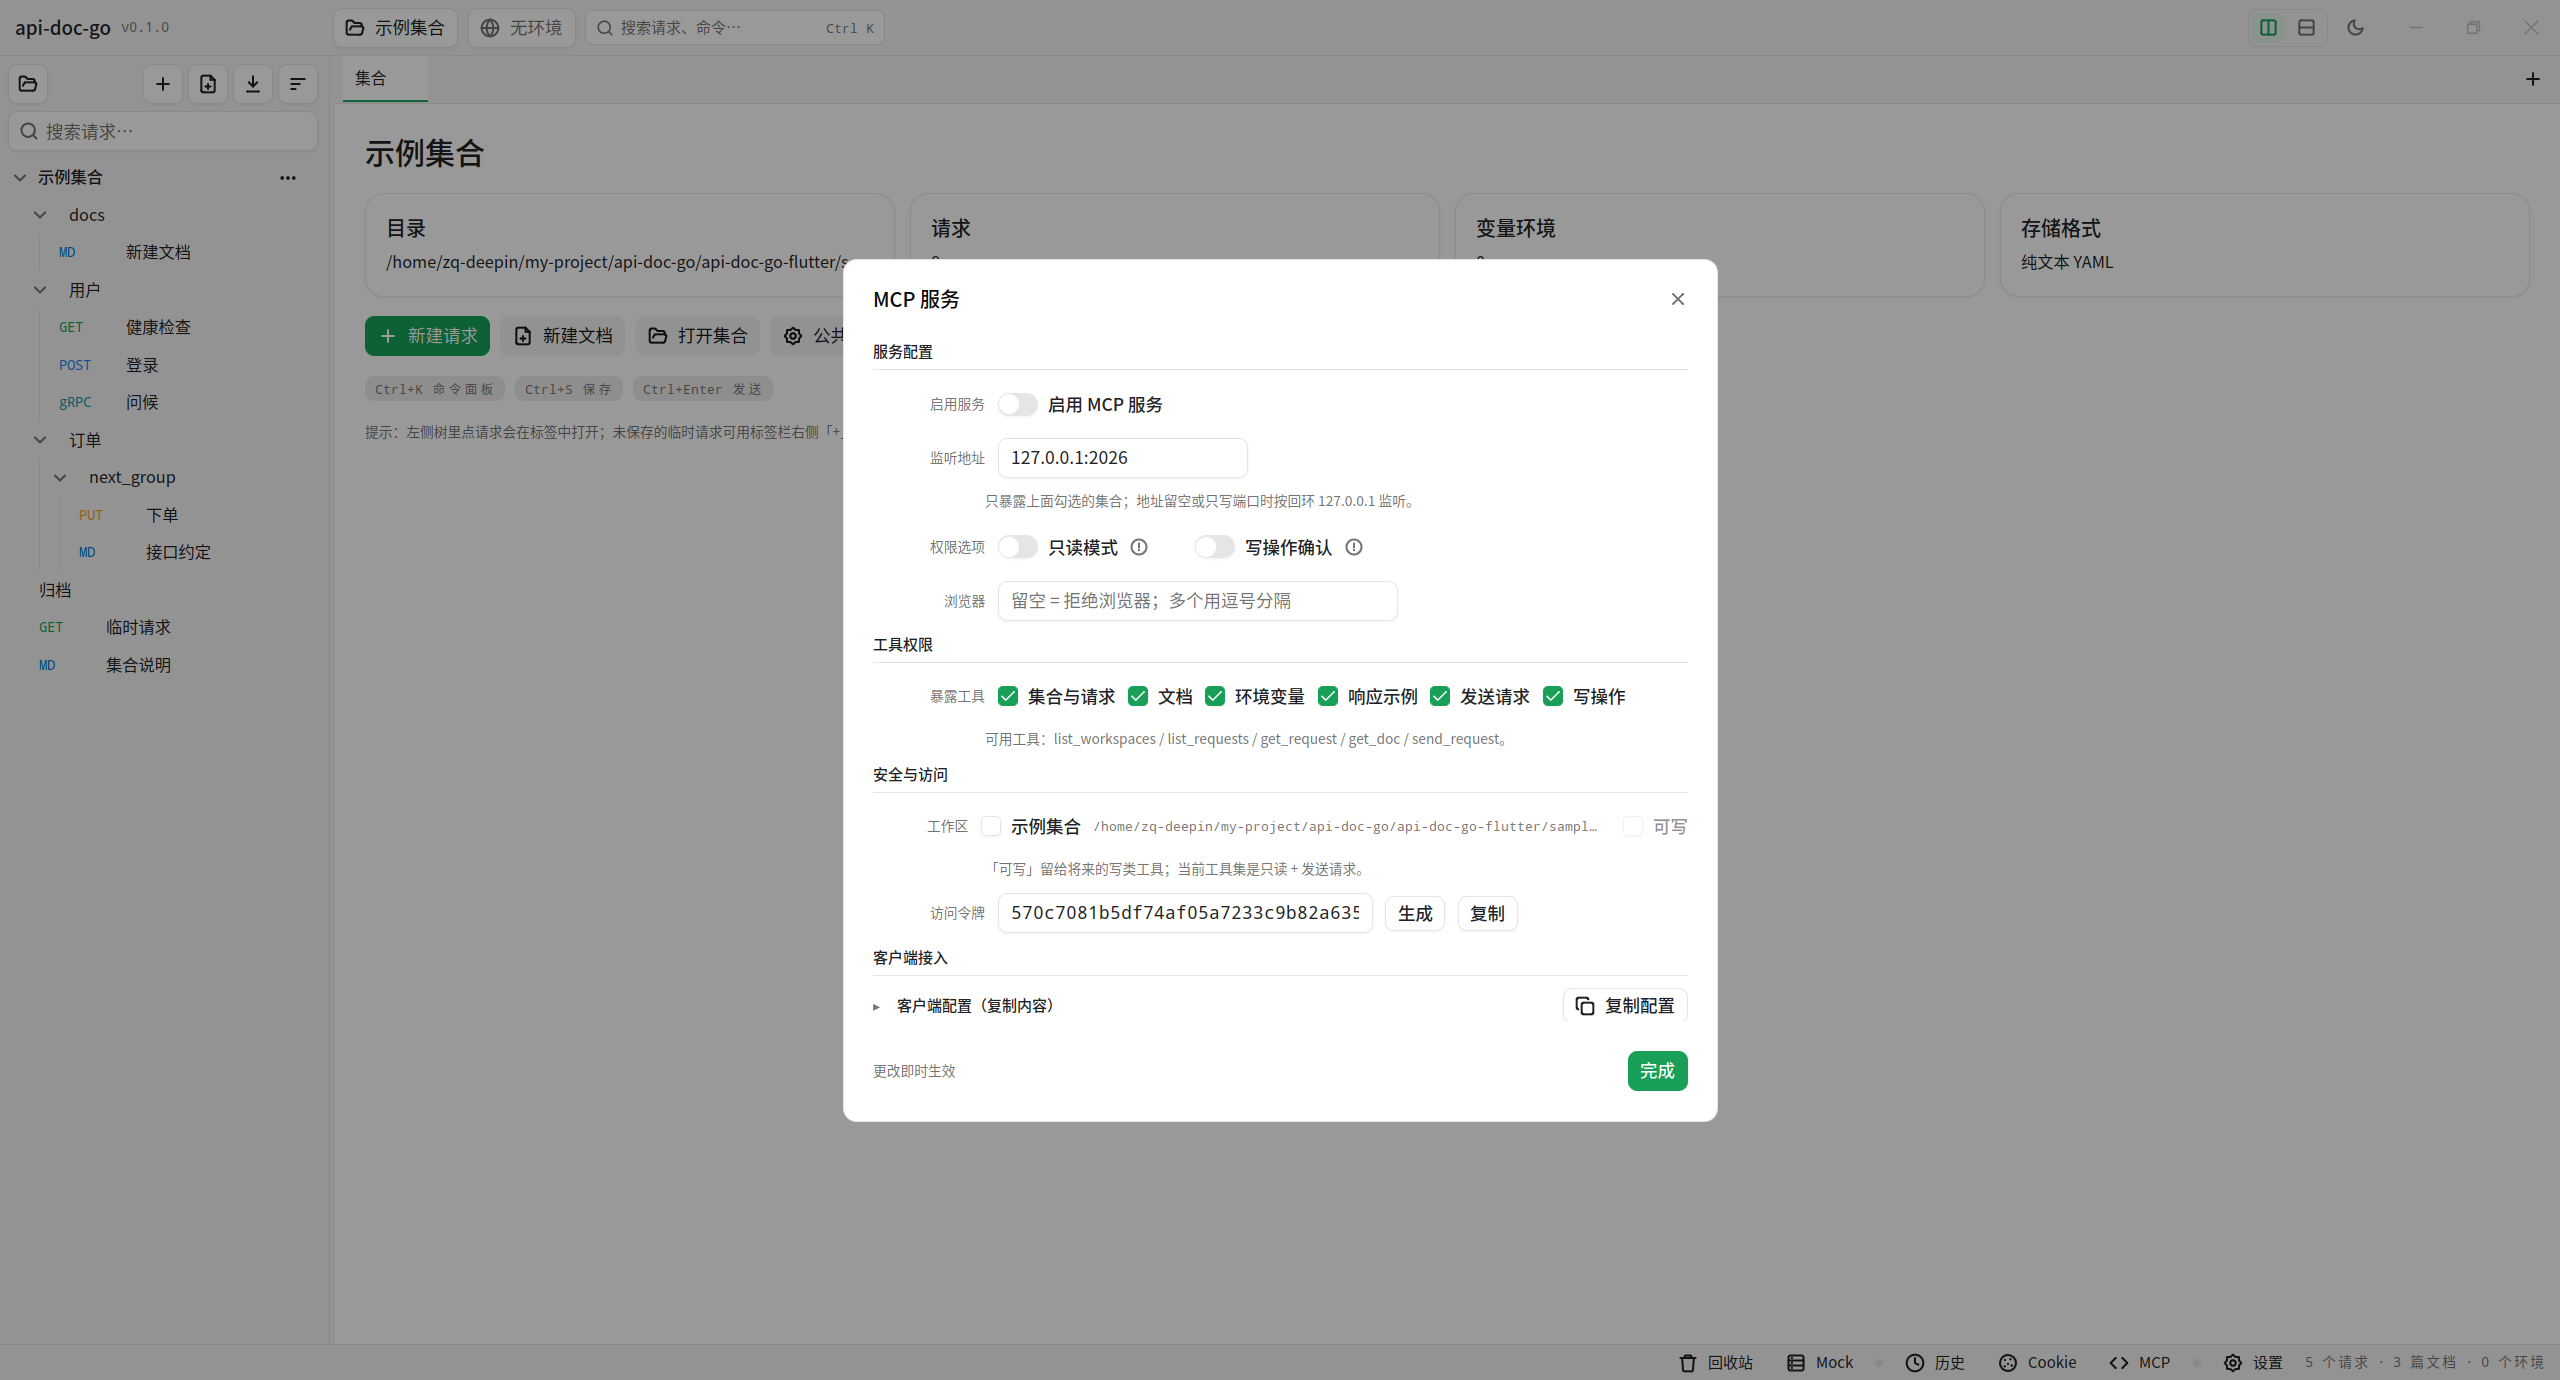
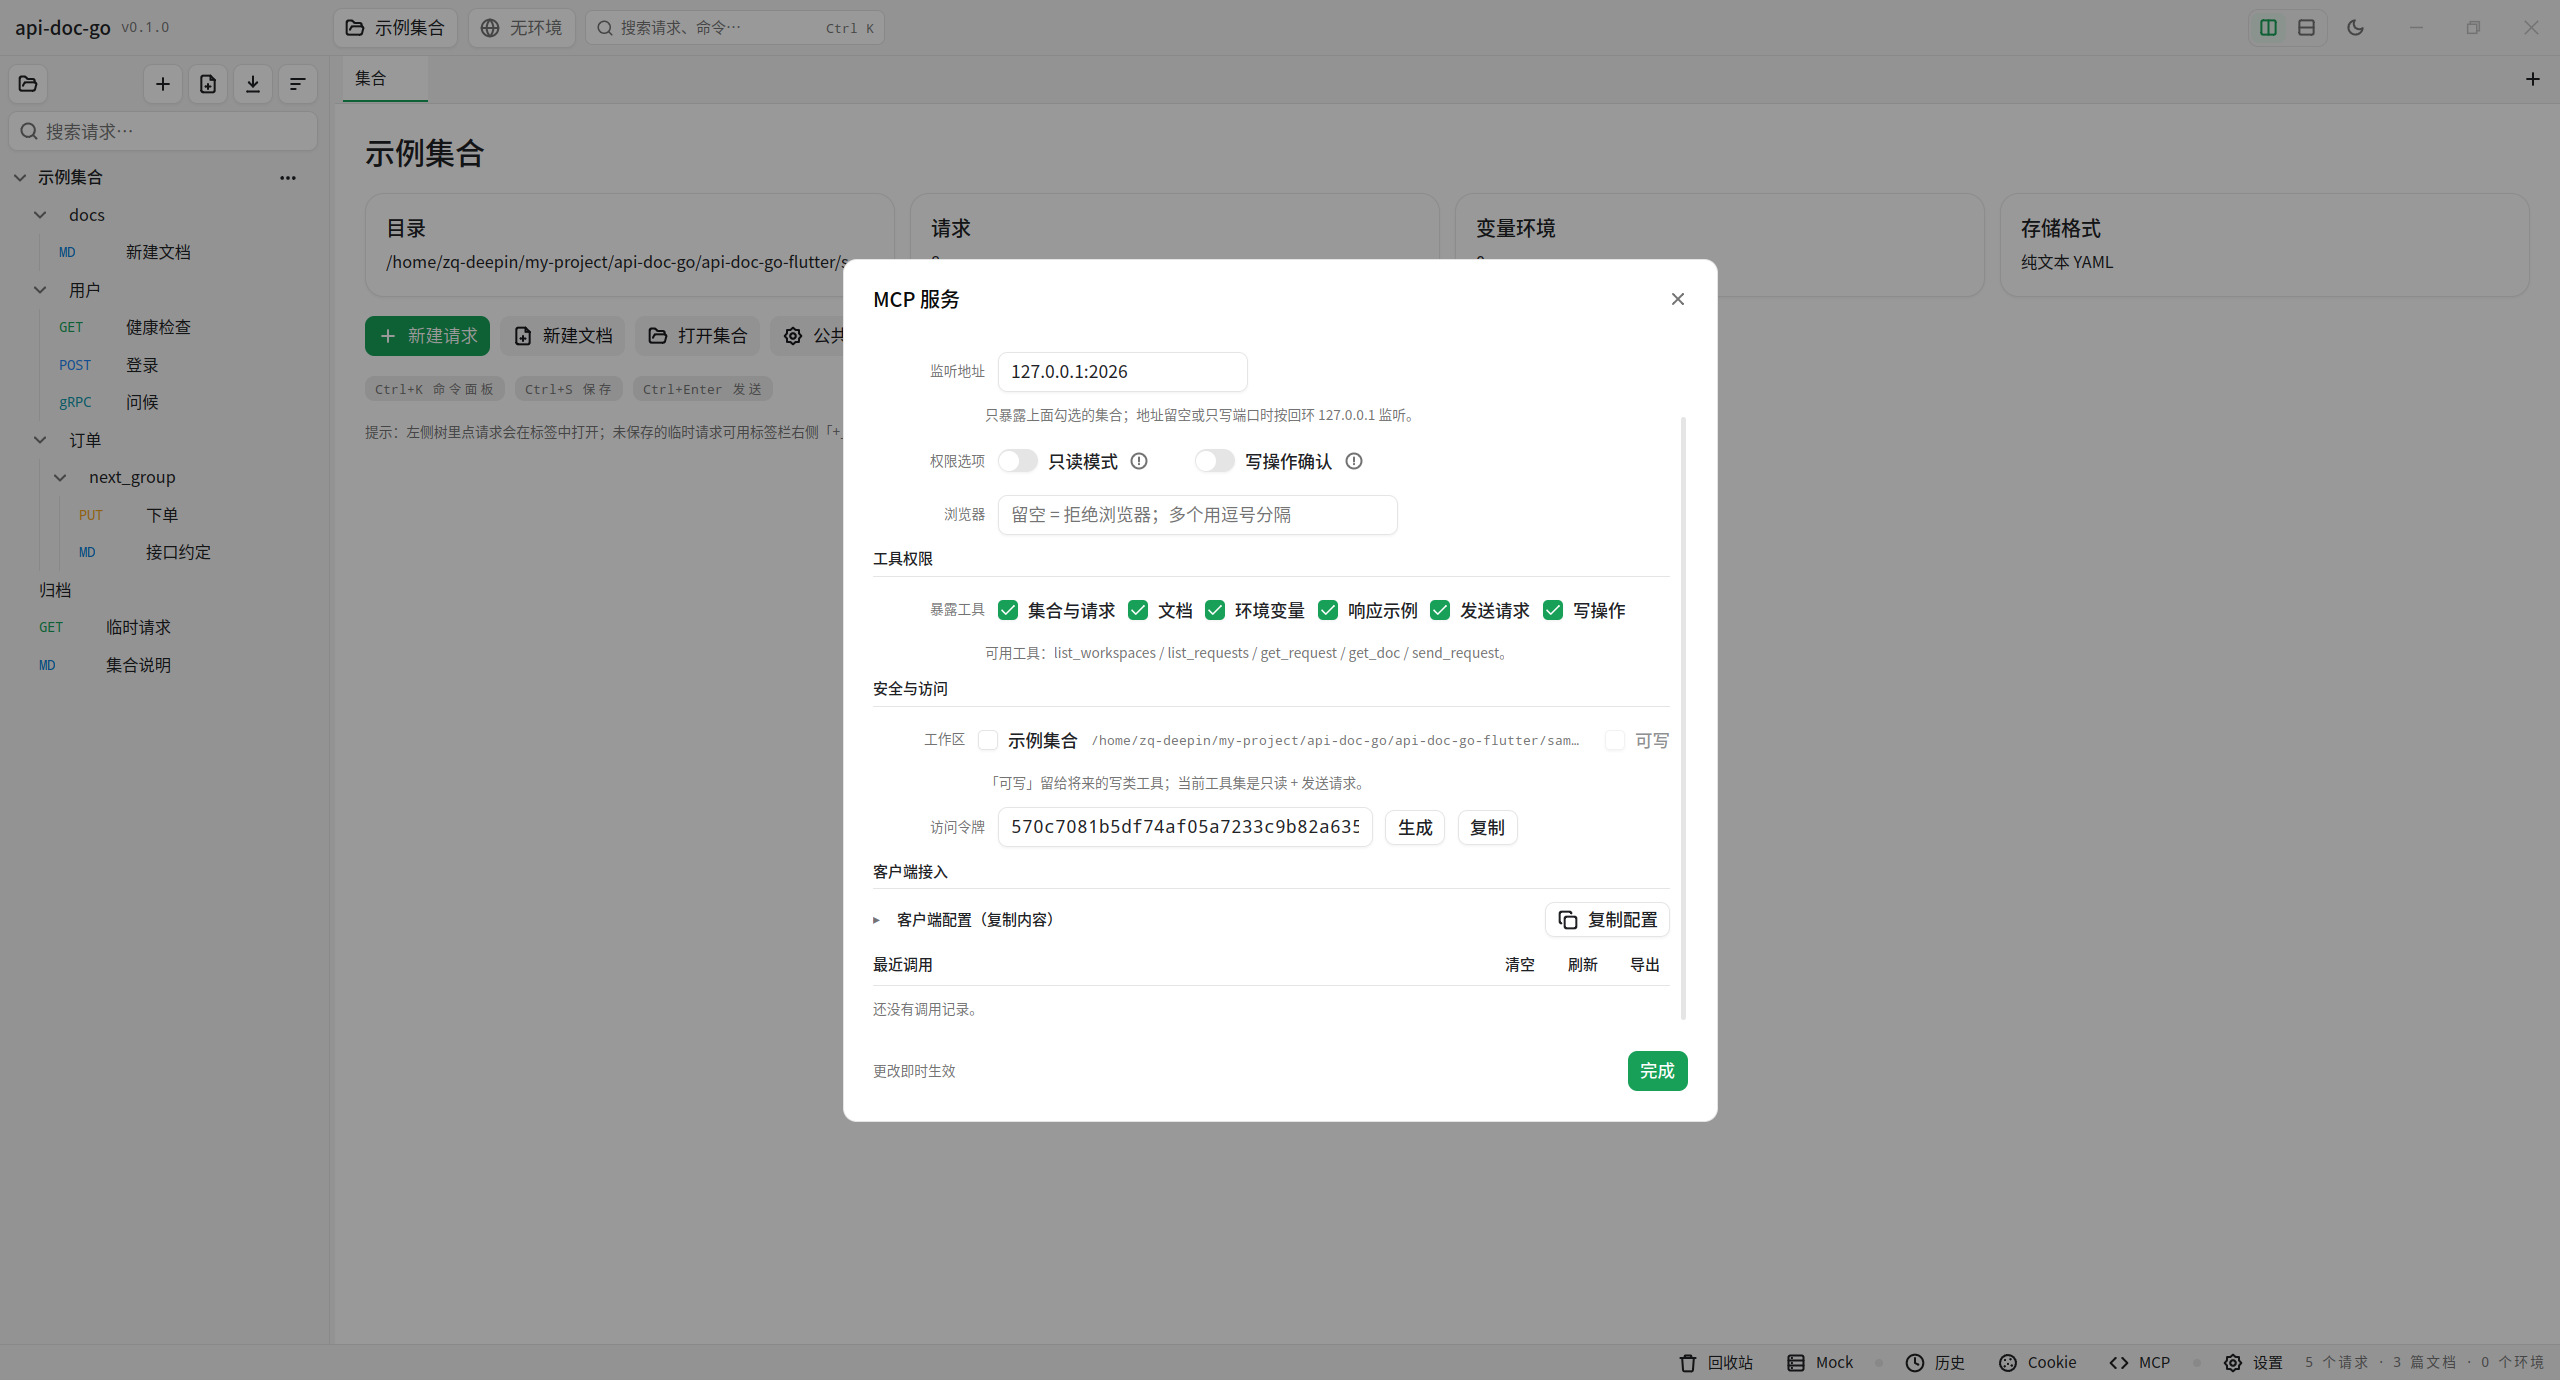
修滚动条压住内容：三处带框架滚动条的滚动区给条子留出位置
viva 的 Scrollbars() 是覆盖式的（base.ScrollAreaBarSize = 10，画在滚动区右边缘之上），
项目里三处带条子的滚动区都没给内容留白，右端文字与右对齐按钮（复制配置 / 可写 / 复制）
会被压在条子底下。

- 新增 scrollbarGutter = 14（条子 10 + 间隙 4）与约定注释
- MCP 面板：内容 Column 加 PadRight(px(scrollbarGutter))
- 命令面板：列表 Column 同样加留白
- 文档预览：滚动区本身 PadRight，Markdown 右端不再被压
- 留白是固定值，滚动条显示 / 隐藏时布局不跳动（截图对比一致）
- 用例：新增 TestMCPContentKeepsClearOfScrollbar，守住「内容右端 ≤ 弹窗右边 - 框内边距 - 留白」
- AGENTS 补一条硬规则：新增带 Scrollbars() 的滚动区必须给内容留白
- 截图 doc/viva-mcp.png 换成修好后的（滚动到底、条子与内容分离）

Changed region(s): [[0.3438, 0.2493, 0.6562, 0.7478]]

diff --git a/internal/view/v069_test.go b/internal/view/v069_test.go
@@ -232,3 +232,33 @@ func TestMCPSettingsLayout(t *testing.T) {
 		t.Fatalf("空状态应显示：%v", painted(driver))
 	}
 }
+
+// TestMCPContentKeepsClearOfScrollbar 滚动区要给自己那条覆盖式滚动条留位置：
+// 内容右端不许越过「弹窗右边 - 框内边距 - scrollbarGutter」，否则文字与右对齐
+// 的按钮（复制配置 / 可写 / 复制）会被压在条子底下。
+func TestMCPContentKeepsClearOfScrollbar(t *testing.T) {
+	t.Setenv("XDG_CONFIG_HOME", t.TempDir())
+	col, err := explorer.Load(writeCollection(t, "http://example.invalid"))
+	if err != nil {
+		t.Fatalf("Load: %v", err)
+	}
+	model := New(col, "", nil)
+	driver := openWindow(t, model)
+	model.OpenMCPSettings()
+	pump(t, driver)
+
+	// 弹窗 700 宽、在 1180 宽的窗口里居中；Modal 内边距按 24 算（与视觉一致）。
+	const dialogRight, modalInset = float32(940), float32(24)
+	limit := dialogRight - modalInset - scrollbarGutter
+	snap := driver.Snapshot()
+	for _, hit := range snap.Hits {
+		// 只看滚动内容区（跳过 scrim、工具栏与底部操作栏），跳过整宽容器。
+		if hit.Label == "" || hit.Bounds.X < 240 || hit.Bounds.Width > 700 ||
+			hit.Bounds.Y < 100 || hit.Bounds.Y > 640 {
+			continue
+		}
+		if right := hit.Bounds.X + hit.Bounds.Width; right > limit {
+			t.Fatalf("%q 越过滚动条留白：right=%.1f 应 ≤ %.1f", hit.Label, right, limit)
+		}
+	}
+}

diff --git a/internal/view/palette.go b/internal/view/palette.go
@@ -74,7 +74,8 @@ func (m *Model) commandPalette(c ui.C) {
 			ui.TextField(c, &m.ui.paletteQuery, "搜索命令", "输入命令名…").FillWidth()
 			// 结果多到超出弹窗时给一条滚动条：列表本身不再被底边裁掉。
 			ui.Scroll(c).Height(px(300)).FillWidth().Scrollbars().Children(func() {
-				ui.Column(c).FillWidth().Gap(px(2)).Children(func() {
+				// 右侧留白给覆盖式滚动条（见 scrollbarGutter）。
+				ui.Column(c).FillWidth().PadRight(px(scrollbarGutter)).Gap(px(2)).Children(func() {
 					needle := strings.ToLower(strings.TrimSpace(m.ui.paletteQuery))
 					shown := 0
 					for _, group := range paletteGroups {

diff --git a/internal/view/panes.go b/internal/view/panes.go
@@ -1001,7 +1001,7 @@ func (m *Model) docPreviewPane(c ui.C, textWidth float32) {
 			ui.Text(c, "（空文档）").Muted()
 			return
 		}
-		ui.Scroll(c).Grow(1).Scrollbars().Children(func() {
+		ui.Scroll(c).Grow(1).Scrollbars().PadRight(px(scrollbarGutter)).Children(func() {
 			m.previewBlock(c, m.editor.text, m.editor.previewKey, docBase(m.editor.file), textWidth)
 		})
 	}).Grow(1).FillWidth().FillHeight()

diff --git a/AGENTS.md b/AGENTS.md
@@ -54,6 +54,12 @@ for d in .claude .agents; do install -m 444 "$SRC/SKILL.md" "$SRC/recipes.md" "$
   禁止手写 `"dir:"+dir` / `"entry:"+file`。两个集合根有同名相对路径又同时展开时会
   `panic: ui: two siblings have the key …`。回归用例 `TestTwoRootsWithSamePathsShareNoTreeKeys`；
   现象、根因与 `remapKey` 的改法见 [`doc/环境与崩溃.md`](doc/环境与崩溃.md)。
+- **带框架滚动条的滚动区要留白**：`ui.Scroll(...).Scrollbars()` 的条子是**覆盖式**的
+  （`base.ScrollAreaBarSize = 10`，画在滚动区右边缘之上），内容容器必须
+  `PadRight(px(scrollbarGutter))`（`scrollbarGutter = 14`，见 `dialogs.go`），
+  否则右端文字与右对齐按钮被压住。留白是固定值，滚动条显隐时布局不跳。
+  现在三处：MCP 面板、命令面板、文档预览；新增带条子的滚动区照此办。回归用例
+  `TestMCPContentKeepsClearOfScrollbar`。
 - **GUI 验证必须用软件 Vulkan**：`VK_ICD_FILENAMES=/usr/share/vulkan/icd.d/lvp_icd.x86_64.json bin/dev start`。
   硬件 Vulkan 会和 IDE 的 Electron GPU 进程抢同一块 AMD 卡，把 IDE 一起带崩（SIGTRAP）。
   取证步骤同见该文档。
